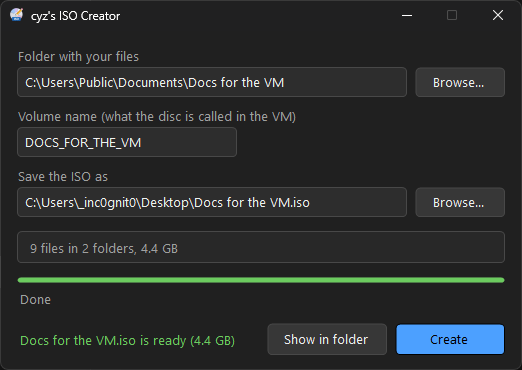
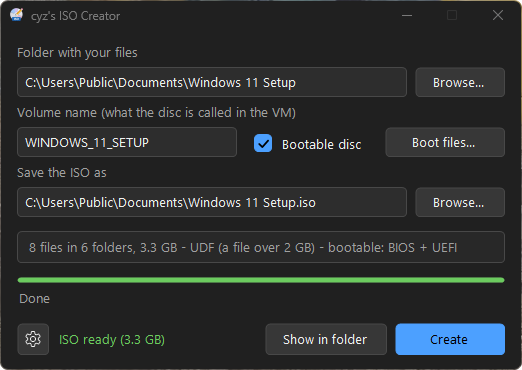
README: 1.1, bootable discs, new screenshots

diff --git a/README.md b/README.md
@@ -1,27 +1,29 @@
 # cyz's ISO Creator
 
-Makes an ISO file from a folder. That's it.
+Makes an ISO file from a folder - a plain disc, or a bootable one.
 
-Handy when a virtual machine has no VMware Tools, no shared folders and no network yet: put your documents in a folder, make an ISO, and mount it in the VM as a CD/DVD drive. Works with VMware, VirtualBox, Hyper-V and anything else that takes an ISO - even Windows XP reads it.
+Handy when a virtual machine has no VMware Tools, no shared folders and no network yet: put your documents in a folder, make an ISO, and mount it in the VM as a CD/DVD drive. Works with VMware, VirtualBox, Hyper-V and anything else that takes an ISO - even Windows XP reads it. Since 1.1 it also makes bootable discs, for example from an unpacked Windows installer.
 
 ![cyz's ISO Creator](screenshots/progress.png)
 
 **[Download the latest version](https://github.com/cyz-yt/cyzs-ISO-Creator/releases/latest)** · [Website](https://cyzs-retroweb.rf.gd/isocreator.php)
 
-Current version: **1.0**
+Current version: **1.1**
 
 ## What it does
 
+- **Bootable discs (BIOS and UEFI).** The boot files of Windows and most Linux discs are found in the folder by themselves, or you pick them by hand. Linux boots from such a disc through UEFI.
 - **Long file names and Polish letters stay as they are.** No `DOKUME~1.DOC`.
 - **Files over 2 GB?** The ISO switches to UDF by itself - the summary tells you before you start.
-- **Light or dark, just like Windows.** It follows your Windows theme, and switches live when you change it.
-- **Never goes online.** No updates, no reports, no accounts. It uses the ISO maker that's built into Windows (IMAPI2), so there's nothing extra inside.
+- **Light or dark.** The same as Windows at first - pick the one you like in Settings.
+- **8 languages:** English, Polish, German, Spanish, French, Italian, Portuguese and Ukrainian - Windows language by default.
+- **Updates, and nothing else online.** At start it reads a small version file on the website. A new version comes only from this GitHub page and only runs when its SHA-256 matches. Turn it off in Settings. No reports, no accounts. It uses the ISO maker that's built into Windows (IMAPI2), so there's nothing extra inside.
 - Cancel any time - the half-made ISO is removed.
 
 ## How it works
 
 1. Pick a folder with **Browse...** - or drop one on the window.
-2. Check the volume name (that's what the drive is called in the VM) and where the ISO goes. Both are filled in for you.
+2. Check the volume name (that's what the drive is called in the VM) and where the ISO goes. Both are filled in for you. If the folder has boot files, "Bootable disc" gets ticked too.
 3. Click **Create**.
 
 ## Screenshots
@@ -29,11 +31,13 @@ Current version: **1.0**
 | | |
 |---|---|
 | ![Ready](screenshots/ready.png) | ![Done](screenshots/done.png) |
-| Folder picked - files counted before you start | Done - one click shows the ISO in Explorer |
+| Folder picked - files counted, boot files found | Done - one click shows the ISO in Explorer |
+| ![Boot files](screenshots/boot-files.png) | ![Settings](screenshots/settings.png) |
+| Boot files: BIOS and UEFI | Settings: language, theme and updates |
 
 ## Installing
 
-Download `IsoCreator-1.0-setup.exe` from [Releases](https://github.com/cyz-yt/cyzs-ISO-Creator/releases/latest) and run it. It installs for you only, no admin needed (or for everyone, if you pick that).
+Download `IsoCreator-1.1-setup.exe` from [Releases](https://github.com/cyz-yt/cyzs-ISO-Creator/releases/latest) and run it. It installs for you only, no admin needed (or for everyone, if you pick that).
 
 Windows may say "Windows protected your PC" because the installer is not code-signed - click **More info**, then **Run anyway**.
 
